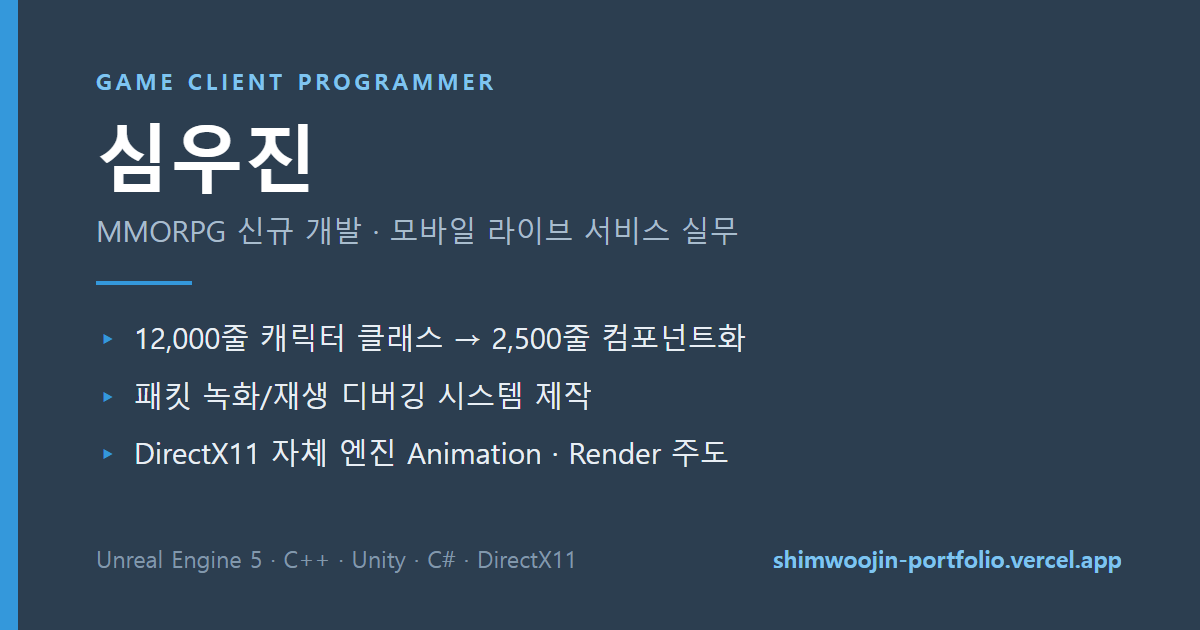
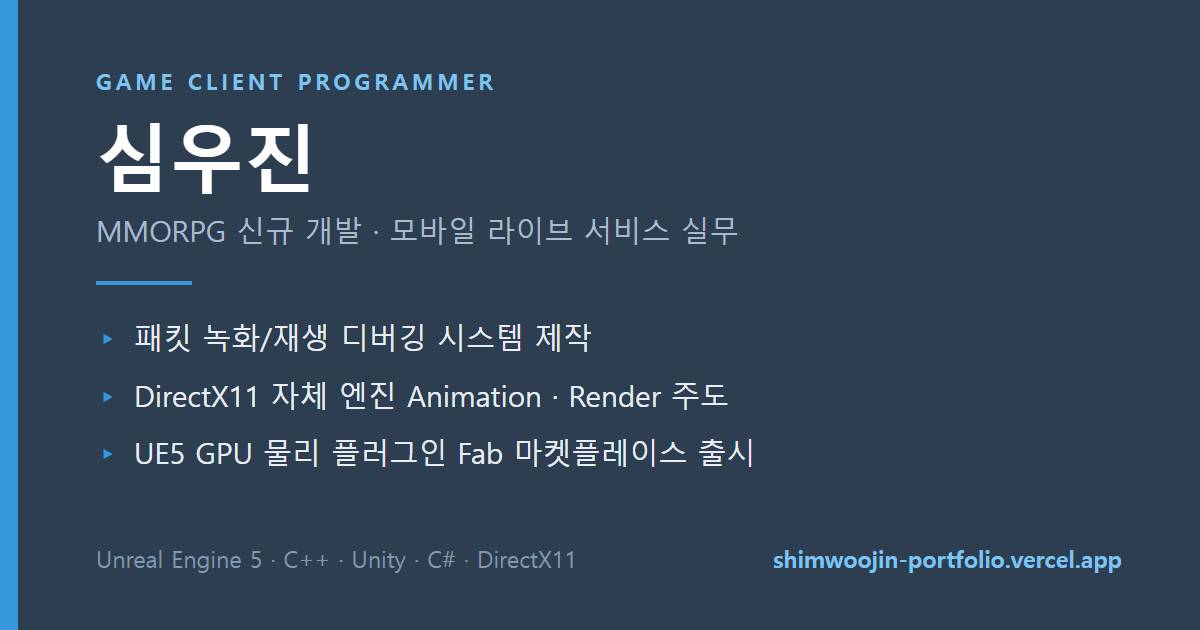
Trim the hero pitch to three highlights on one line
Drop the 12,000-line refactoring highlight from the first screen and the
link preview so the remaining three fit a single row. The refactoring is
still told in full on the resume and the project modal.

Claude-Session: https://claude.ai/code/session_01DygJ41q1U2Cd6gmmtKoKp5

Changed region(s): [[0.1233, 0.6937, 0.6475, 0.754], [0.0925, 0.6032, 0.6167, 0.6635], [0.0925, 0.5127, 0.6167, 0.573]]

diff --git a/index.html b/index.html
@@ -6,14 +6,14 @@
 
     <!-- 기본 SEO -->
     <title>심우진 | 게임 클라이언트 프로그래머 포트폴리오</title>
-    <meta name="description" content="게임 클라이언트 프로그래머 심우진. MMORPG 신규 개발(Unreal 5)과 모바일 라이브 서비스(Unity) 실무. 12,000줄 캐릭터 클래스 컴포넌트화, 패킷 녹화/재생 디버깅 시스템, DirectX11 자체 엔진 Animation·Render 주도, UE5 물리 플러그인 Fab 출시." />
+    <meta name="description" content="게임 클라이언트 프로그래머 심우진. MMORPG 신규 개발(Unreal 5)과 모바일 라이브 서비스(Unity) 실무. 패킷 녹화/재생 디버깅 시스템 제작, DirectX11 자체 엔진 Animation·Render 주도, UE5 GPU 물리 플러그인 Fab 마켓플레이스 출시." />
     <meta name="keywords" content="게임 개발자, 게임 프로그래머, Unreal Engine, Unity, C++, C#, 포트폴리오, 심우진" />
     <meta name="author" content="심우진" />
 
     <!-- Open Graph (카카오톡, 페이스북, 링크드인 등) -->
     <meta property="og:type" content="website" />
     <meta property="og:title" content="심우진 | 게임 클라이언트 프로그래머" />
-    <meta property="og:description" content="MMORPG 신규 개발과 모바일 라이브 서비스를 모두 거친 클라이언트 프로그래머. 12,000줄 → 2,500줄 컴포넌트화 · 패킷 녹화/재생 디버깅 시스템 · DirectX11 자체 엔진 Animation·Render 주도" />
+    <meta property="og:description" content="MMORPG 신규 개발과 모바일 라이브 서비스를 모두 거친 클라이언트 프로그래머. 패킷 녹화/재생 디버깅 시스템 제작 · DirectX11 자체 엔진 Animation·Render 주도 · UE5 GPU 물리 플러그인 Fab 출시" />
     <meta property="og:url" content="https://shimwoojin-portfolio.vercel.app" />
     <meta property="og:image" content="https://shimwoojin-portfolio.vercel.app/og-card.png" />
     <meta property="og:image:type" content="image/png" />
@@ -26,7 +26,7 @@
     <!-- Twitter Card -->
     <meta name="twitter:card" content="summary_large_image" />
     <meta name="twitter:title" content="심우진 | 게임 클라이언트 프로그래머" />
-    <meta name="twitter:description" content="MMORPG 신규 개발과 모바일 라이브 서비스를 모두 거친 클라이언트 프로그래머. 12,000줄 → 2,500줄 컴포넌트화 · 패킷 녹화/재생 디버깅 시스템" />
+    <meta name="twitter:description" content="MMORPG 신규 개발과 모바일 라이브 서비스를 모두 거친 클라이언트 프로그래머. 패킷 녹화/재생 디버깅 시스템 제작 · DirectX11 자체 엔진 Animation·Render 주도" />
     <meta name="twitter:image" content="https://shimwoojin-portfolio.vercel.app/og-card.png" />
 
     <!-- 파비콘 -->

diff --git a/src/locales/ko.js b/src/locales/ko.js
@@ -15,7 +15,6 @@ const ko = {
     role: '게임 클라이언트 프로그래머',
     pitch: 'MMORPG 신규 개발과 모바일 라이브 서비스를 모두 거쳤습니다. 퀘스트·NPC 대화·UI 같은 핵심 시스템부터, 팀이 실제로 매일 쓰는 개발 도구까지 직접 만듭니다.',
     highlights: [
-      { value: '12,000줄 → 2,500줄', label: '캐릭터 클래스 컴포넌트화 (Unreal 5)' },
       { value: '재현 불가 버그를 즉시 재현', label: '패킷 녹화/재생 디버깅 시스템 제작' },
       { value: 'Animation · Render 주도', label: 'DirectX11 자체 게임엔진 (크래프톤 정글)' },
       { value: 'Fab 마켓플레이스 출시', label: 'UE5 GPU 물리 플러그인 Dynamic Rope' }

diff --git a/src/locales/en.js b/src/locales/en.js
@@ -15,7 +15,6 @@ const en = {
     role: 'Game Client Programmer',
     pitch: 'I have shipped on both a new MMORPG and a live-service mobile title. I build core client systems — quests, NPC dialogue, UI — and the development tools my team actually uses every day.',
     highlights: [
-      { value: '12,000 → 2,500 lines', label: 'Character class componentization (Unreal 5)' },
       { value: 'Repro the unreproducible', label: 'Packet record/replay debugging system' },
       { value: 'Led Animation · Render', label: 'Custom DirectX11 game engine (KRAFTON JUNGLE)' },
       { value: 'Shipped on the Fab marketplace', label: 'Dynamic Rope, a UE5 GPU physics plugin' }

diff --git a/src/components/Hero.css b/src/components/Hero.css
@@ -43,13 +43,19 @@ section.hero {
   max-width: 760px;
 }
 
-/* 대표 성과 - 값(굵게) + 무엇(설명) */
+/* 대표 성과 - 값(굵게) + 무엇(설명). 3개가 데스크톱에서 한 줄에 들어간다 */
 .hero-highlights {
   list-style: none;
   display: grid;
-  grid-template-columns: repeat(auto-fit, minmax(230px, 1fr));
+  grid-template-columns: repeat(3, minmax(0, 1fr));
   gap: 14px;
   margin-bottom: 34px;
+}
+
+@media (max-width: 860px) {
+  .hero-highlights {
+    grid-template-columns: repeat(auto-fit, minmax(230px, 1fr));
+  }
 }
 
 .hero-highlight {

diff --git a/tools/og-card.html b/tools/og-card.html
@@ -80,9 +80,9 @@
       <p class="role">MMORPG 신규 개발 · 모바일 라이브 서비스 실무</p>
       <div class="rule"></div>
       <ul class="results">
-        <li>12,000줄 캐릭터 클래스 → 2,500줄 컴포넌트화</li>
         <li>패킷 녹화/재생 디버깅 시스템 제작</li>
         <li>DirectX11 자체 엔진 Animation · Render 주도</li>
+        <li>UE5 GPU 물리 플러그인 Fab 마켓플레이스 출시</li>
       </ul>
       <div class="footer">
         <span class="stack">Unreal Engine 5 · C++ · Unity · C# · DirectX11</span>

diff --git a/src/components/Hero.jsx b/src/components/Hero.jsx
@@ -3,7 +3,7 @@ import { Link } from 'react-router-dom'
 import { useLanguage } from '../context/LanguageContext'
 import './Hero.css'
 
-// 첫 화면 3초 피치 - 직군 / 대표 성과 4개 / 경력기술서·프로젝트·GitHub 진입점
+// 첫 화면 3초 피치 - 직군 / 대표 성과 3개 / 경력기술서·프로젝트·GitHub 진입점
 function Hero() {
   const { t } = useLanguage()
 

diff --git a/CLAUDE.md b/CLAUDE.md
@@ -28,7 +28,7 @@ shimwoojin-portfolio/
 ├── src/
 │   ├── components/
 │   │   ├── Header.jsx/css       # 고정 네비게이션 (다크모드·언어 토글, 경력기술서 CTA, 로고 클릭 시 새로고침)
-│   │   ├── Hero.jsx/css         # 첫 화면 3초 피치 (직군·대표 성과 4개·경력기술서/프로젝트/GitHub CTA)
+│   │   ├── Hero.jsx/css         # 첫 화면 3초 피치 (직군·대표 성과 3개·경력기술서/프로젝트/GitHub CTA)
 │   │   ├── About.jsx/css        # 자기소개 + Skills/Development Tools 태그
 │   │   ├── Experience.jsx/css   # 경력/교육 타임라인 (item.type으로 실무/교육 배지 구분)
 │   │   ├── Projects.jsx/css     # 프로젝트 데이터 배열 + 시그니처/아카이브 렌더링
